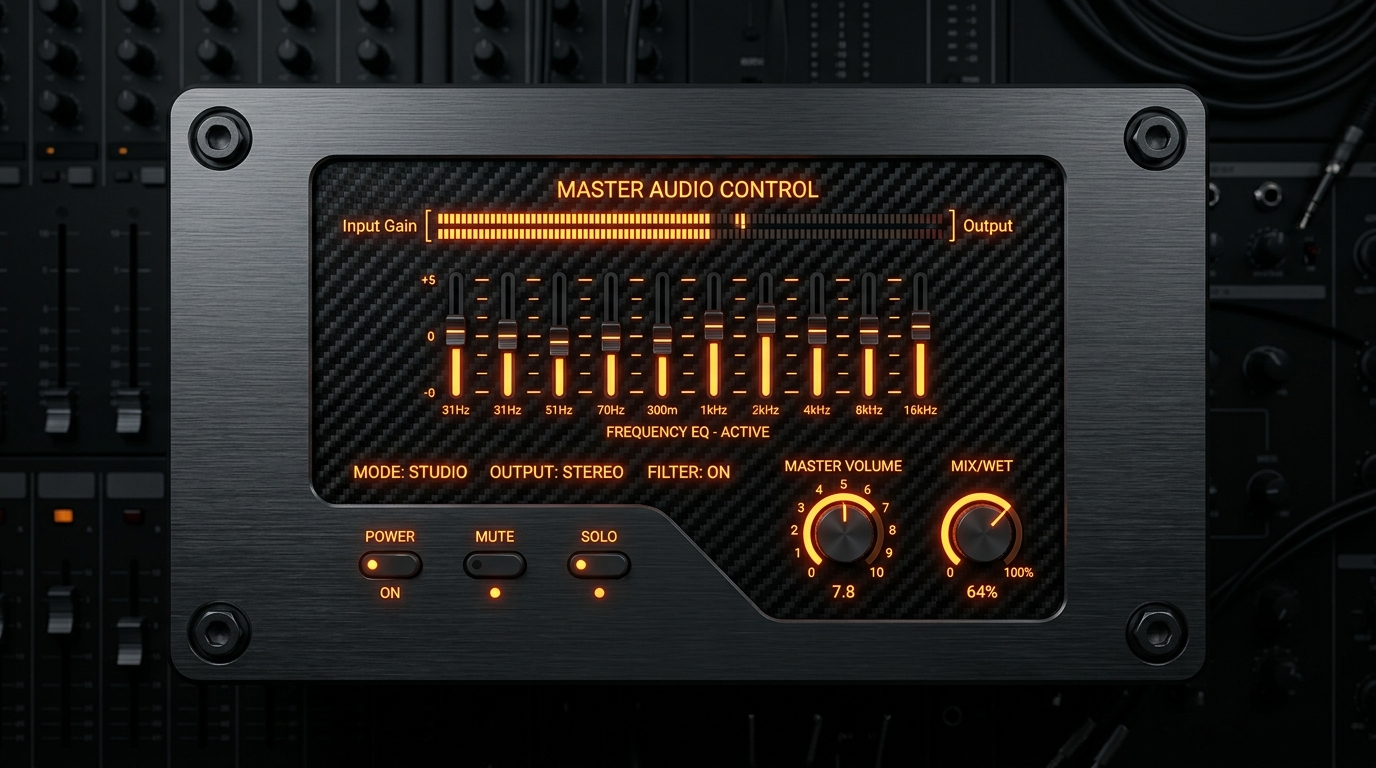
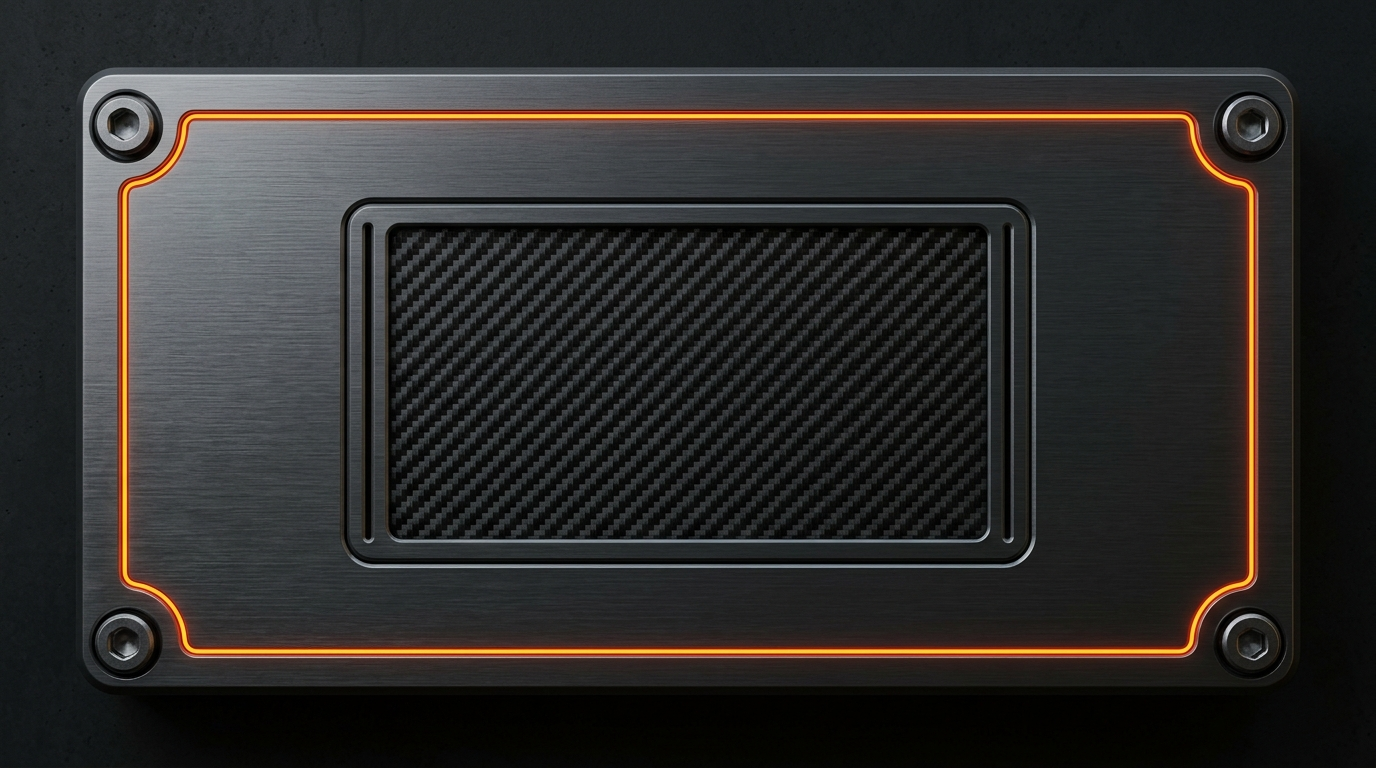
Fix knob JPEG black corner artifacts with circular masking, replace mock-up background with blank chassis, and fix top-bar bypass layout

diff --git a/Source/PluginEditor.cpp b/Source/PluginEditor.cpp
@@ -426,7 +426,7 @@ void RnVDistoAudioProcessorEditor::paint (juce::Graphics& g)
     // Draw the Header Title (positioned centrally in top bar)
     g.setColour (juce::Colours::white);
     g.setFont (juce::FontOptions (18.0f));
-    g.drawText ("RnV Disto", 240, 10, 150, 30, juce::Justification::left, true);
+    g.drawText ("RnV Disto", 280, 10, 120, 30, juce::Justification::centred, true);
 }
 
 void RnVDistoAudioProcessorEditor::resized()
@@ -437,7 +437,7 @@ void RnVDistoAudioProcessorEditor::resized()
     auto topBar = bounds.removeFromTop (50);
     
     // Position Bypass button on the left of top bar
-    bypassButton.setBounds (topBar.removeFromLeft (100).reduced (5));
+    bypassButton.setBounds (topBar.removeFromLeft (150).reduced (5));
     
     // Position Input Channel Selector next to it
     inputChannelSelector.setBounds (topBar.removeFromLeft (130).reduced (5));

diff --git a/Source/GUI/CustomLookAndFeel.h b/Source/GUI/CustomLookAndFeel.h
@@ -61,8 +61,13 @@ public:
             // We create a rotation transform around the center of the knob
             auto transform = juce::AffineTransform::rotation (angle, centreX, centreY);
 
-            // Draw the knob cap with rotation transform applied
+            // Draw the knob cap with circular mask and rotation transform applied
             g.saveState();
+            
+            juce::Path clipPath;
+            clipPath.addEllipse (capRect);
+            g.reduceClipRegion (clipPath);
+            
             g.addTransform (transform);
             g.drawImageWithin (knobImg, 
                               static_cast<int> (capRect.getX()), 
